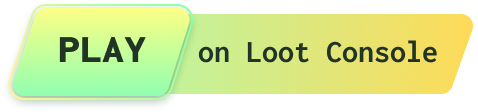
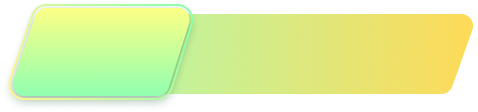
update: font-size

Changed region(s): [[0.1172, 0.3214, 0.3222, 0.5625], [0.6736, 0.3482, 0.9372, 0.5625], [0.41, 0.375, 0.6444, 0.5625]]

diff --git a/src/pages/home/Home.module.scss b/src/pages/home/Home.module.scss
@@ -30,6 +30,9 @@
     margin-left: -6rem;
     word-spacing: 1.5rem;
   }
+  @include mixin.from(media.$lg) {
+    font-size: 32px;
+  }
 }
 
 .footer_text {
@@ -38,7 +41,9 @@
   font-size: 1.4rem;
   line-height: 2rem;
   margin-top: 3rem;
-
+  @include mixin.from(media.$lg) {
+    font-size: 22px;
+  }
   @include mixin.until(media.$sm) {
     margin-top: 8rem;
     font-size: 3.5rem;
@@ -137,13 +142,16 @@
 
 .body2_title {
   font-size: 2rem;
-
+  @include mixin.from(media.$lg) {
+    font-size: 32px;
+  }
   @include mixin.until(media.$sm) {
     font-size: 5rem;
     margin-top: 9rem;
     margin-left: 33.8rem;
     word-spacing: 1rem;
   }
+
 }
 
 .body2_text {
@@ -380,19 +388,41 @@
 
     .btnGroup {
       width: 100%;
-
+      display: flex;
+      justify-content: flex-start;
+      flex-direction: row;
       button {
-        margin: 2rem auto;
+        margin: 2rem 0;
         width: 14.875rem;
         height: 3rem;
         color: #213425;
         font-weight: 700;
         border-radius: 6px;
-        font-family: 'Inconsolata-VariableFont_wdth';
+        font-family: Inconsolata-VariableFont_wdth;
         border: 0;
         margin-left: 0;
-        background-position: center center;
+        display: flex;
+        justify-content: space-between;
+        align-items: center;
+        padding: 0 20px 0 30px;
+        background-repeat: no-repeat;
         background-size: 100% 100%;
+        span:first-child {
+          color: #213425;
+          font-weight: 900;
+          size: 1.25rem;
+          @include mixin.from(media.$lg) {
+            font-size: 20px;
+          }
+        }
+        span:last-child {
+          color: #213425;
+          font-weight: 700;
+          size: 1rem;
+          @include mixin.from(media.$lg) {
+            font-size: 16px;
+          }
+        }
         @include mixin.until(media.$sm) {
           font-size: 1.25rem;
           width: 24rem;

diff --git a/src/pages/home/Home.tsx b/src/pages/home/Home.tsx
@@ -268,11 +268,17 @@ export const Home: FC<HomeType> = () => {
 							<h1>Adventure Gold</h1>
 							<p>Building the Lootverse Infrastruture</p>
 							<div className={styles.btnGroup}>
-								<button className={styles.lButton} onClick={show}></button>
+								<button className={styles.lButton} onClick={show}>
+									<span>BUILD</span>
+									<span>on Loot Chain</span>
+								</button>
 								<button
 									className={styles.rButton}
 									onClick={() => window.open("https://games-nft-w.netlify.app/games", "_blank")}
-								></button>
+								>
+									<span>PLAY</span>
+									<span>on Loot Console</span>
+								</button>
 							</div>
 						</div>
 						{/* <img src={img} alt={"img"} />

diff --git a/src/modules/header/Header.module.scss b/src/modules/header/Header.module.scss
@@ -64,6 +64,9 @@
   @include mixin.until(media.$sm) {
     display: none!important;
   }
+  @include mixin.from(media.$lg) {
+    font-size: 18px;
+  }
 }
 
 .selectBox {
@@ -96,6 +99,9 @@
   }
   @include mixin.until(media.$sm) {
     display: none!important;
+  }
+  @include mixin.from(media.$lg) {
+    font-size: 18px;
   }
 }
 
@@ -133,7 +139,7 @@
   position: absolute;
   top: 2rem;
   background-color: #1B1F1C;
-  border: 1px solid #4b5954;
+  border: 1px solid #FDFFAC;
   border-radius: 10px;
   padding: 10px;
   ul {
@@ -167,7 +173,7 @@
 
 .selector {
   position: absolute;
-  border: 1px solid #4b5954;
+  border: 1px solid #FDFFAC;
   border-radius: 10px;
   width: 150px;
   top: 2rem;

diff --git a/src/theme/variables.scss b/src/theme/variables.scss
@@ -31,11 +31,15 @@ html {
   --primary-color: rgba(96, 1, 211, 1);
   //header
 
-  --header-height: 9.5rem;
+  --header-height: 6rem;
 
   @media (max-width: 768px) {
     --header-height: 13.116rem;
     --gutters: 3rem;
+  }
+
+  @media (max-width: 1200px) {
+    --header-height: 6rem;
   }
 
 
